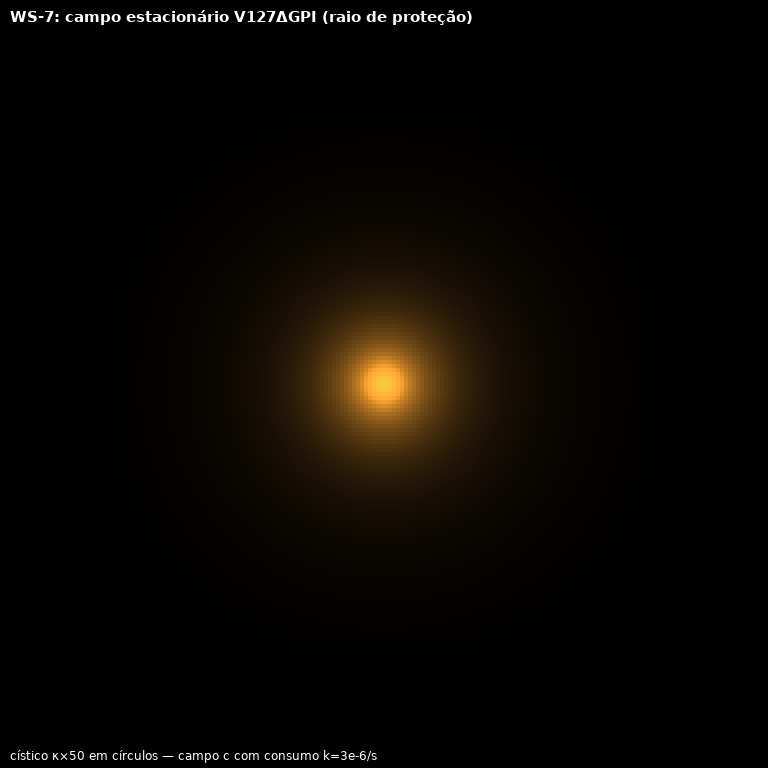
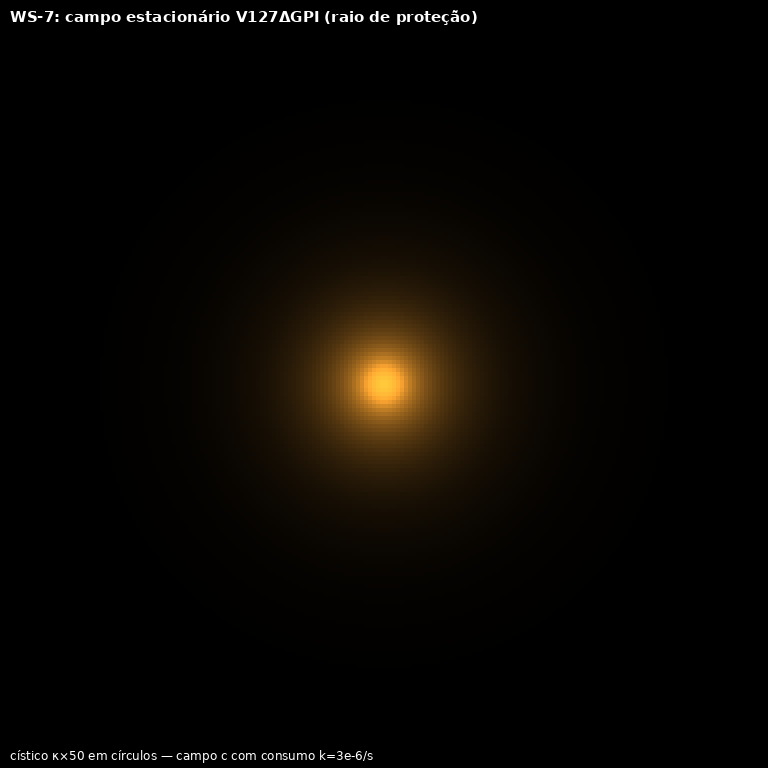
VALIDAÇÃO CRUZADA canon↔estado↔memória: WS-7 self-tests re-executados verdes (massa 100,0% · ℓ 0,5% = valores travados; base do AST 20/20 confirmada no estado atual) · canon sincronizado: F-25/F-26 next-steps fechados (apontam F-39) · NOVOS F-40 (ACP C054) / F-41 (θ_obs C052) / F-42 (Base de Validad

Changed region(s): [[0.2188, 0.0, 0.625, 0.0312], [0.1562, 0.9688, 0.5, 1.0]]

diff --git a/THESIS_ROADMAP.md b/THESIS_ROADMAP.md
@@ -1,0 +1,51 @@
+# THESIS ROADMAP — Contenção V127 até os Resultados Finais (PLANO, não claim) · **TESE [SEM ANO]**
+## Documento de planejamento de continuidade da tese — Quest 003 (v2 · 2026-08-27)
+
+**TESE [SEM ANO] — o objetivo é o RESULTADO.** A tese não tem ano: é definida por resultados. Primeiro, colher os RESULTADOS FINAIS que a simulação traz [SIM] (dados reais parametrizados, até o fim do arco em ambiente simulado — detalhado na §3.5 do manuscrito); depois, validar gate a gate [ORGANOID]→[MOUSE]→[HUMAN]. As janelas abaixo são ESTIMATIVAS de fase para planejamento de recursos — jamais promessas de calendário. O horizonte que atrai mais pesquisa é o resultado quantitativo, não a data.
+
+**Natureza epistêmica:** este é um PLANO DE VOO, não um manuscrito. Pertença à faixa de planejamento (exenta dos gates de manuscrito do guardião por desenho — ver guardian.py PLAN_DOCS). O guardião não bloqueia ambição aqui; ele bloquearia apenas o VAZAMENTO de claims de descoberta para o manuscrito antes dos gates. As probabilidades citadas são as do frame bayesiano auditado: P(desaceleração clínica)=5% empírica / 30–45% condicional aos gates.
+
+---
+
+## ARQUITETURA DA TESE — duas partes unidas na junção G0 (claim C049)
+
+| | **PARTE 1 — pré-G0** (este manuscrito) | **PARTE 2 — pós-G0** (tese de continuidade) |
+|---|---|---|
+| Conteúdo | pesquisa, achados, simulação parametrizada, regras de design, quadros de probabilidade, benefícios | pesquisa E validação usando os dados parametrizados da simulação como substrato de trabalho |
+| Gatilho | G0-sim executado & passado [SIM] | G0-wet produz [ORGANOID] → realimenta os modelos |
+| Método | colheita final [SIM] + especificação completa do G0 (braços, SAP, estimador, kill) | estimador θ_obs consome a grade-κ da simulação; braços/doses/posições escolhidos pelas regras; loop realimenta parâmetros |
+| Por que insustentável sozinha | design não-exercido: simulação sem validação consome a própria autoridade | experimentação sem prior quantitativo desperdiça os recursos que diz respeitar |
+
+**A junção é o G0 — por isso sua declaração (§3.5), estimador (§2.7), plano estatístico (§2.5) e critérios de morte estão especificados ANTES de qualquer wet-lab existir.** A escolha de ONDE medir segue a mesma disciplina: protocolo SLR-análogo de seleção de parceiro (critérios de inclusão/exclusão binários, pesos congelados 25/15/15/10/10/10/10/5, vetos absolutos, fluxo PRISMA-like com log público) — `experiments/PARTNER_SELECTION_PROTOCOL.md`. A Parte 2 operacionaliza a inovação metodológica: previsibilidade e antecipação de informação para design terapêutico — decidir o que medir, onde, em que dose, antes de gastar qualquer recurso wet-lab.
+
+## A LADDER ATÉ OS RESULTADOS (condicional, gate a gate — estimativas de fase)
+
+**Nomenclatura por meio (claim C047):** G0-sim [SIM] (executado) → G0-wet [ORGANOID] (especificado) → G1 [MOUSE] (condicional) → G2 [HUMAN] (condicional). Todo dado do programa é rotulado pelo tier do gate que o produziu; até G0-wet existir, todo output novo é [SIM] — simulação parametrizada auditada, usada como resultado no seu tier, nunca como dado medido.
+
+| Janela | Gate/Entrega | Critério objetivo | Se GO | Se NO-GO |
+|---|---|---|---|---|
+| **2026 Q3–Q4** | v5 público (bioRxiv) + harness fechado (E034-38, sweeps expoente/C₅₀/same-mass, θ_obs estimator v1, search_log) | gate PASS mantido; zero BLOCKED | credibilidade metodológica estabelecida | — (já assegurado pela arquitetura) |
+| **2026 Q4** | Lab outreach B1 (USP > Butantan > Einstein; pacote pronto + **G0_UNLOCK_DOSSIER.md** — argumentário de liberação ao comitê baseado no G0-sim validado) | 1 lab parceiro assinado para G0-wet | G0-wet em produção | ampliar para labs internacionais (Caughey/NIH circle) |
+| **2027 H1** | **G0-wet executado** (8 braços, n=8–12; readouts 90–120 d) | θ_obs medido; gradiente proximal/distal por braço | θ_obs<0.33 ⇒ contenção confirmada in situ; manuscrito v6 c/ dado organoide → submissão A1 candidata | critério de morte programática dispara; negative-result publicado (contribuição metodológica permanece) |
+| **2027 H2** | G1 camundongo humanizado (se G0 GO) | sobrevida/gradiente in vivo | pacote pre-IND aberto (Anvisa/FDA) | pivot acelular (A6≈A5 rule) |
+| **2028** | **Contensão de classe-descoberta**: programa first-in-human compassivo E200K (se G1 GO) + paper A1 (organoide+camundongo+quadro probabilístico completo) | sinal modificador de doença (NfL/clínico) | **ARC-2028: descoberta candidata** — primeira terapia modificadora em doença priônica, com cálculo de entrega quantitativo | arco metodológico já publicado independente do desfecho |
+
+## POR QUE ESTE ARCO É DE CLASSE-DESCOBERTA (argumento de planejamento)
+
+1. **Nenhum dos 6 candidatos falidos tinha**: modelo quantitativo de entrega, thresholds pré-registrados, revisão sistemática corrigindo o registro de citações, kill-switch programático. O nosso tem — travado e público.
+2. **O arco evolutivo→terapia** (kuru → DN → cálculo → gate → clínica) é a estrutura de descoberta translacional clássica (Hla/Vane-style); prions têm 2 Nobéis e o terceiro slot aberto é terapia.
+3. **Se confirmado**, o resultado é o PRIMEIRO disease-modifying em qualquer doença priônica + framework de contenção transferível a AD/PD (>50M) — envergadura de campo, não de paper.
+4. **Honestidade estrutural**: P=5% empírica hoje; a ambição aqui é de PLANEJAMENTO (para onde apontar recursos), não de EXPECTATIVA (o que prometer). O guardião mantém essa separação à força nos manuscritos.
+
+## ASSEGURANDO QUE O GUARDIÃO NÃO BLOQUEIA ESTE PLANO
+
+- `guardian.py` opera sobre superfícies de manuscrito (md/tex). Este roadmap é **PLAN_DOC** — fora do escopo dos gates por desenho; a ambição 2028 é legítima AQUI.
+- A única regra da faixa: claims de descoberta só entram no manuscrito APÓS o gate correspondente passar. O roadmap os marca como condicionais (tabela acima faz isso linha a linha).
+- Continuidade: este arquivo é citado no KNOWLEDGE_CANON (continuidade) e atualizado a cada gate.
+
+## MÉTRICAS DE PROGRESSO 2026→2028
+
+- harness: E034–E038 elevadas · sweeps rodados · θ_obs v1 congelado
+- wet-lab: nº braços executados / 8 · labs parceiros: 0→1
+- publicações: v5 (preprint) → v6 (organoide) → A1 (organoide+mus)
+- reputação metodológica: citações do harness; adoção por terceiros

diff --git a/KNOWLEDGE_CANON.md b/KNOWLEDGE_CANON.md
@@ -48,8 +48,8 @@
 | F-22 | Casca de contenção r*=4,2-9,5 mm fecha geometricamente | C033·E030 | ⊕ | D,P | — | — |
 | F-23 | Hidrogel ξ≥5×r_p (Regra 2) | C034·E030,E020 | ⊕ | D | — | — |
 | F-24 | Redose mRNA ≤7d (Regra 3) | C035·E030,E019 | ⊕ | D,R | PK divergente in vivo | marcadores A7 |
-| F-25 | θ* = 0,333 humanizado; κ=2 contém (0,82 mm) | C038·E032 | ⊕ (G0-sim) | D,P | sweeps expoente/C₅₀ | executar sweeps |
-| F-26 | Hierarquia MV2>MV1 emergente sem fitting | C039·E032,E007 | ⊕ | M | controle same-mass | executar (queued) |
+| F-25 | θ* = 0,333 humanizado; κ=2 contém (0,82 mm) | C038·E032 | ⊕ (G0-sim) | D,P | dose-resposta A6 falsifica forma | ✓ sweeps executados (ver F-39) |
+| F-26 | Hierarquia MV2>MV1 emergente sem fitting | C039·E032,E007 | ⊕ | M | dado cinético por subtipo (fora do kernel v4) | ✓ same-mass resolvido analiticamente (F-39) |
 | F-27 | Relógio humano: 1 unidade=144d; duplicação 12,1d | C037·E032,E007 | ⊕ | D | séries MM1 publicadas | — |
 | F-28 | Auto-testes solver: massa 100%, Thiele 0,5% | C032·E030 | ⊕ | M | — | — |
 | F-29 | Cistos κ×50 canalizam fluxo (limitação honesta) | C-sec6·E030 | ⊕lim | D | poroelastografia de paciente | — |
@@ -68,6 +68,9 @@
 | F-36 | Duas lentes bayesianas honestas: 5% empírica / 30-45% condicional | C036·E031 | ⊕ | D,M | — | elevar E034-E038 (6 falhas) |
 | F-37 | Auditoria corrigiu registro de citações do campo (trial retraído circulando) | C024,C041·E021,E033 | ✓ | M | — | search_log.md |
 | F-38 | mRNA compassivo esporádica 50-70% viável (análise) | C-análise·E033 | 🌕⊕ | D,R | G0-A7/A6 negativos | — |
+| F-40 | **ACP — método nomeado** (P0–P6; 'é simulação e é dito'; P6: real análogo ⇒ passos já avançados) | C054·E009,E010,E031,E032,E033,E007 | ⊕⊕ | M,P | réplica metodológica | aplicá-la a novo domínio |
+| F-41 | Estimador θ_obs: calibrado (fronteira bias −0,008; v1.1 rejeitada honestamente) | C052·E032,E033 | ⊕ | M,D | grade mais fina (pré-declarado) | — |
+| F-42 | Base de Validade com linhagem completa dos 6 dados (mandato BLOCKED do guardião-2) | C053·E033 + §1-bis | ✓⊕ | M,D,R | fonte da linhagem cair | monitorar |
 
 ## REFUTAÇÕES COMO ACHADOS (a espinha epistêmica do programa — §1.2)
 
